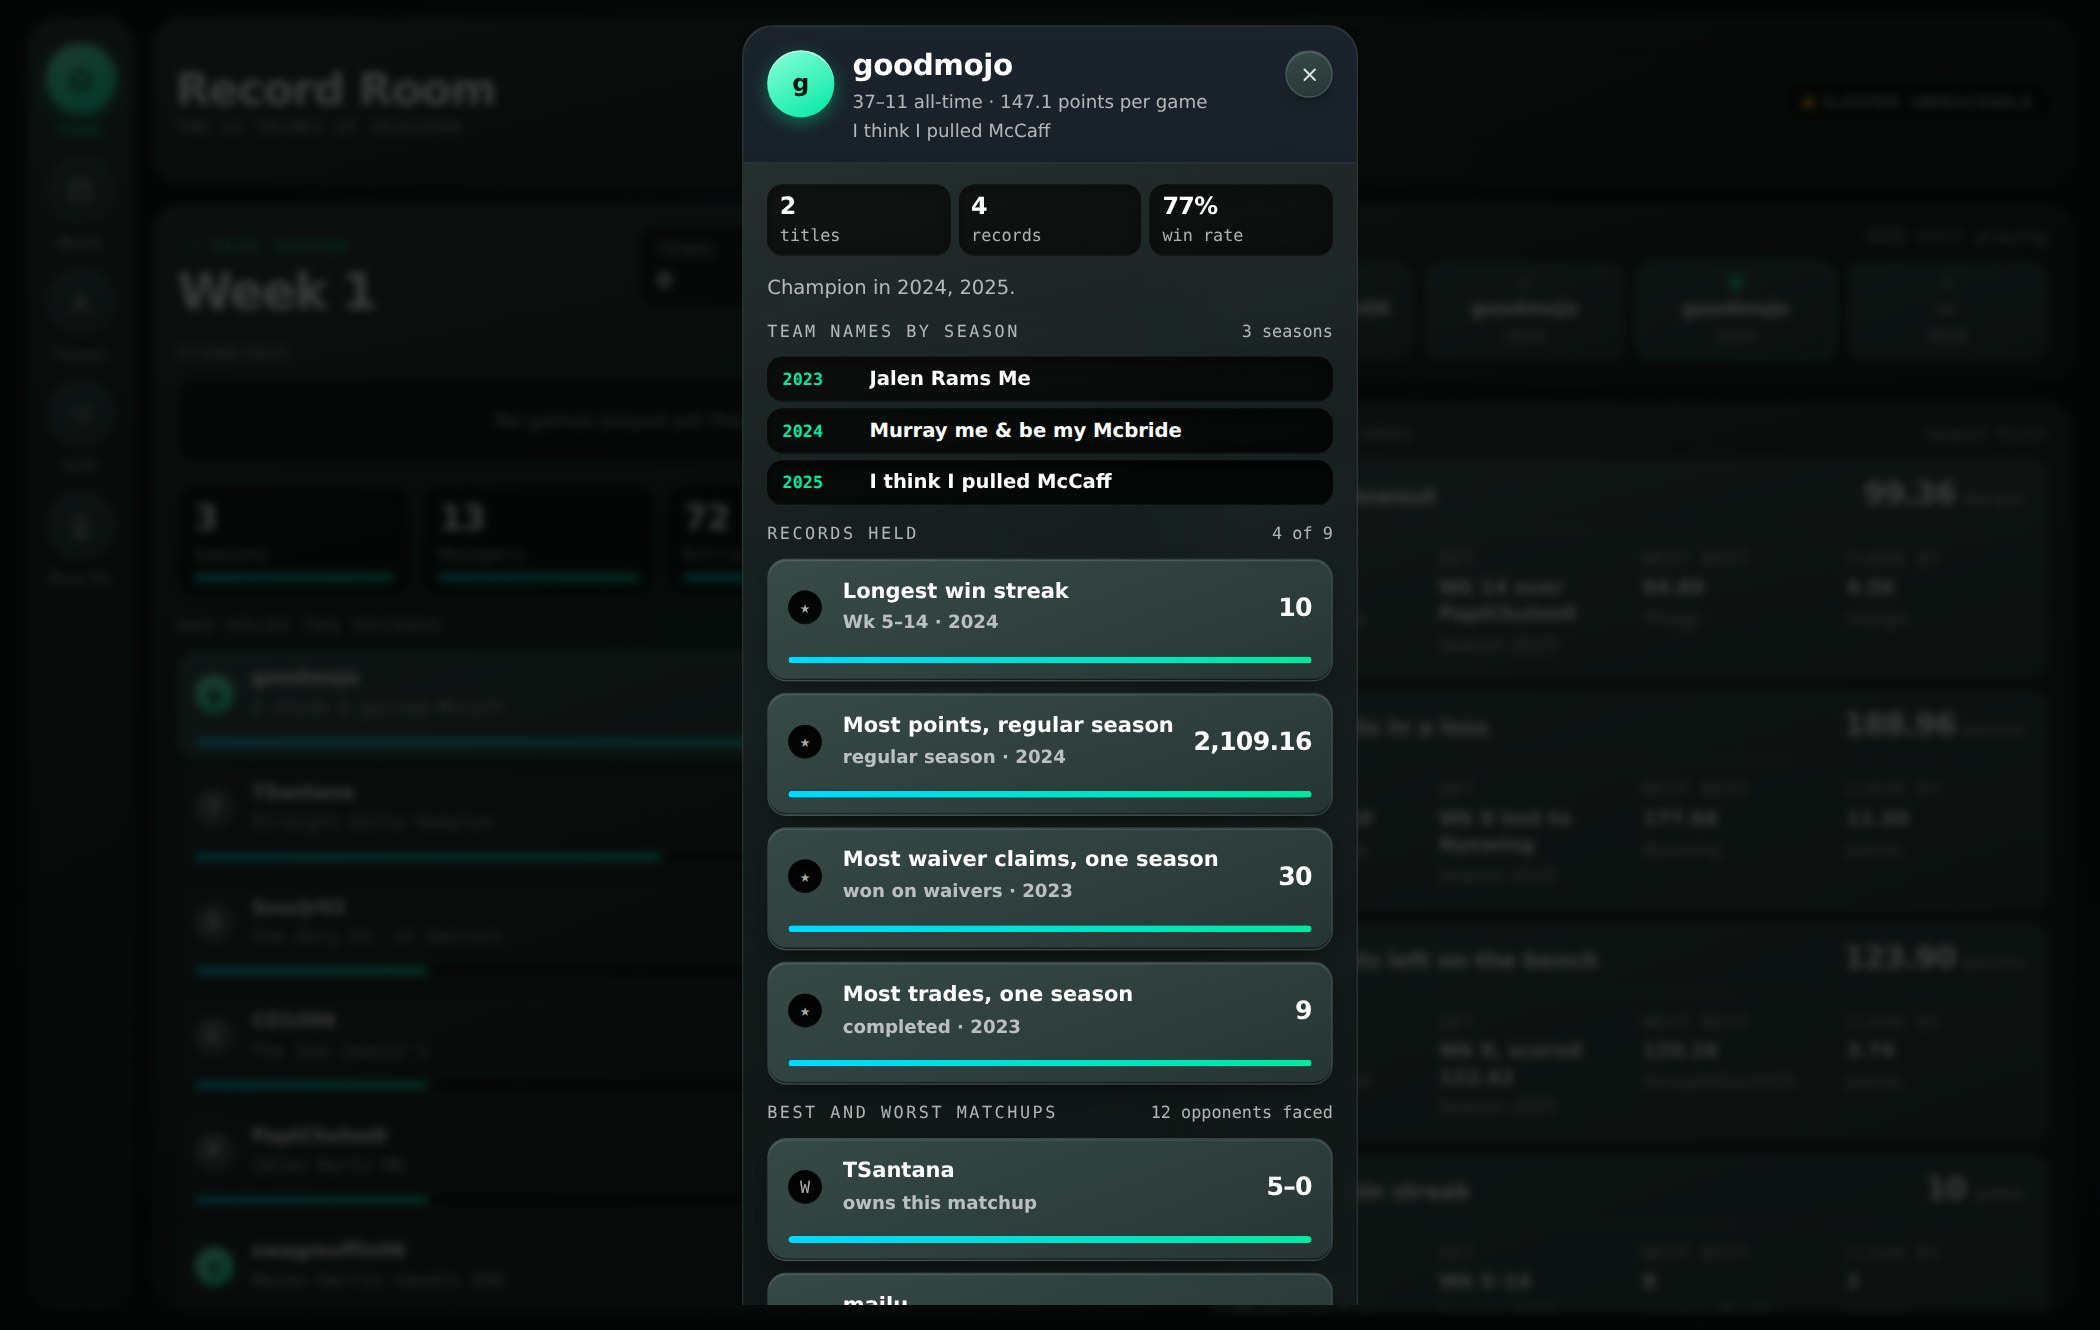
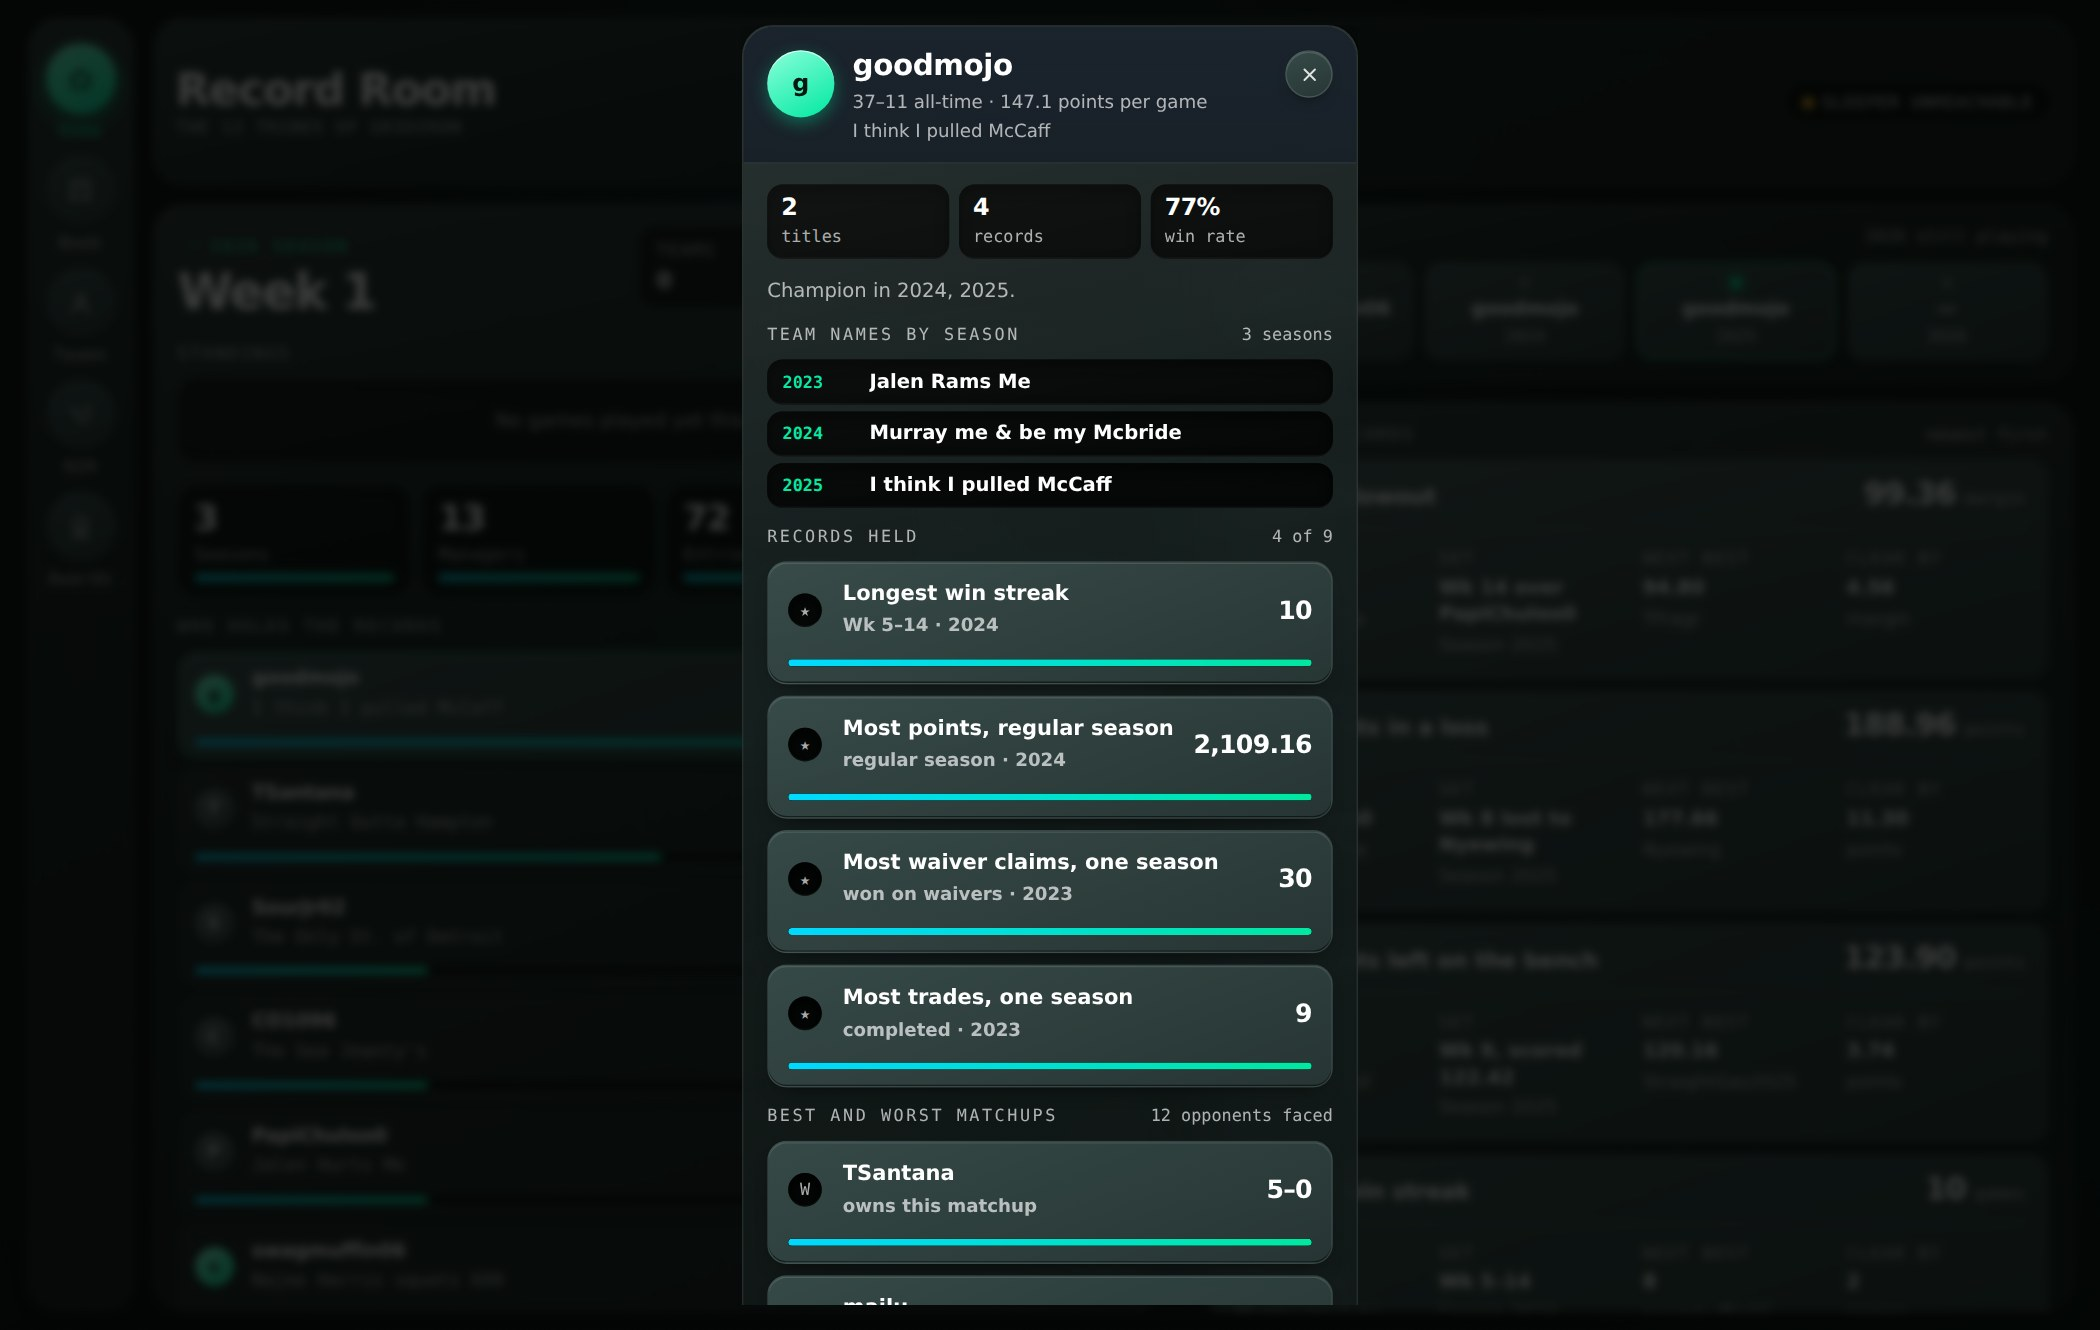
Stop the manager cards wrapping their own numbers
A record like 39-12 was breaking at the dash onto two lines, which made every
stat box twice as tall as it needed to be and every card with it. The values
no longer wrap, the labels truncate instead of pushing the number around, and
the cards are wide enough that three stats sit side by side. Checked at 1920,
1500, 1200, 900, 500 and 400: nothing wraps at any of them.

The managers heading also still read "all-time, 2019-2025", a range from the
fabricated sample that was never true of this league. It now comes from the
seasons actually loaded.

Claude-Session: https://claude.ai/code/session_01TiNMvjTDK6Q7mnYRtzpeH8

diff --git a/public/index.html b/public/index.html
@@ -225,7 +225,7 @@ button{font:inherit;color:inherit}
 .sbends{display:flex;justify-content:space-between;margin-top:5px;font-family:var(--mono);
   font-size:12px;color:var(--ink-3);font-variant-numeric:tabular-nums}
 .rval{font-family:var(--disp);font-size:22px;font-weight:700;letter-spacing:-.035em;
-  font-variant-numeric:tabular-nums;line-height:1}
+  font-variant-numeric:tabular-nums;line-height:1;white-space:nowrap}
 .rvalu{font-family:var(--mono);font-size:12px;color:var(--ink-3);margin-left:6px}
 /* champions timeline */
 .hbars{display:flex;flex-direction:column;gap:6px}
@@ -242,7 +242,7 @@ button{font:inherit;color:inherit}
 .hb .hn{font-size:14px;font-weight:700;letter-spacing:-.01em}
 .hb .hs{display:block;font-family:var(--mono);font-size:13px;color:var(--ink-3);margin-top:5px;line-height:1.45}
 .hb .hv{font-family:var(--disp);font-size:19px;font-weight:700;letter-spacing:-.03em;
-  font-variant-numeric:tabular-nums;text-align:right;line-height:1}
+  font-variant-numeric:tabular-nums;text-align:right;line-height:1;white-space:nowrap}
 .hb .hv em{display:block;font-family:var(--mono);font-style:normal;font-size:12px;font-weight:400;
   color:var(--ink-3);letter-spacing:.04em;margin-top:4px}
 .hb .hw{grid-column:1/-1;height:5px;border-radius:999px;background:var(--recess);box-shadow:var(--well-sh);overflow:hidden}
@@ -325,9 +325,9 @@ button{font:inherit;color:inherit}
 .stn{min-width:0;font-size:15px;font-weight:700;letter-spacing:-.01em;line-height:1.3}
 .stt{display:block;font-size:13px;font-weight:400;color:var(--ink-3);margin-top:4px;line-height:1.4;
   overflow:hidden;text-overflow:ellipsis;white-space:nowrap}
-.stw{font-family:var(--mono);font-size:14px;color:var(--ink-2);font-variant-numeric:tabular-nums}
+.stw{font-family:var(--mono);font-size:14px;color:var(--ink-2);font-variant-numeric:tabular-nums;white-space:nowrap}
 .stp{font-family:var(--disp);font-size:17px;font-weight:700;letter-spacing:-.03em;text-align:right;
-  font-variant-numeric:tabular-nums;line-height:1}
+  font-variant-numeric:tabular-nums;line-height:1;white-space:nowrap}
 .stp em{display:block;font-family:var(--mono);font-style:normal;font-size:12px;font-weight:400;
   color:var(--ink-3);margin-top:4px}
 .stbar{grid-column:1/-1;height:5px;border-radius:999px;background:var(--recess);box-shadow:var(--well-sh);
@@ -359,8 +359,8 @@ button{font:inherit;color:inherit}
 
 /* ═══ MANAGERS ═══ */
 #p-mgrs{grid-template-rows:minmax(0,1fr)}
-.mgrid{display:grid;grid-template-columns:repeat(auto-fill,minmax(210px,1fr));gap:9px}
-.mcard{text-align:left;padding:12px;border-radius:var(--r-s);cursor:pointer;
+.mgrid{display:grid;grid-template-columns:repeat(auto-fill,minmax(258px,1fr));gap:10px}
+.mcard{text-align:left;padding:13px;border-radius:var(--r-s);cursor:pointer;
   border:1px solid rgba(255,255,255,.055);
   background:linear-gradient(160deg,var(--e2-hi),var(--e2));
   box-shadow:inset 0 1px 0 rgba(255,255,255,.12),0 9px 19px -12px rgba(0,0,0,.97);
@@ -383,11 +383,11 @@ button{font:inherit;color:inherit}
 .sl b{font-family:var(--mono);font-size:12px;color:var(--accent);font-weight:600}
 .sl span{font-size:14px;font-weight:600;overflow:hidden;text-overflow:ellipsis;white-space:nowrap}
 .sl i{font-style:normal;color:var(--ink-3);font-weight:400}
-.mstats{display:grid;grid-template-columns:1fr 1fr;gap:6px;margin-top:11px}
-.ms{padding:8px 9px;border-radius:11px;background:var(--recess);box-shadow:var(--well-sh)}
+.mstats{display:grid;grid-template-columns:1fr 1fr;gap:7px;margin-top:11px}
+.ms{padding:9px 10px;border-radius:11px;background:var(--recess);box-shadow:var(--well-sh);min-width:0}
 .ms b{display:block;font-family:var(--disp);font-size:17px;font-weight:700;letter-spacing:-.03em;
-  font-variant-numeric:tabular-nums;line-height:1}
-.ms span{display:block;font-family:var(--mono);font-size:12px;color:var(--ink-3);margin-top:4px}
+  font-variant-numeric:tabular-nums;line-height:1;white-space:nowrap}
+.ms span{display:block;font-family:var(--mono);font-size:12px;color:var(--ink-3);margin-top:4px;white-space:nowrap;overflow:hidden;text-overflow:ellipsis}
 .mbar{height:5px;border-radius:999px;background:var(--recess);box-shadow:var(--well-sh);margin-top:10px;overflow:hidden}
 .mbar i{display:block;height:100%;border-radius:999px;
   background:linear-gradient(90deg,var(--accent-2),var(--accent));box-shadow:0 0 9px rgba(0,232,160,.6)}
@@ -613,7 +613,7 @@ dialog::backdrop{background:rgba(2,5,4,.78);backdrop-filter:blur(3px)}
     <!-- ══ MANAGERS ══ -->
     <section class="page" id="p-mgrs">
       <div class="panel glass pad scroll">
-        <div class="sechead"><h4>Managers</h4><em>all-time, 2019–2025 · tap a card</em></div>
+        <div class="sechead"><h4>Managers</h4><em id="mgrNote"></em></div>
         <div class="mgrid" id="mgrid"></div>
       </div>
     </section>
@@ -1007,6 +1007,8 @@ function renderBoard(){
 
 /* ═══ MANAGERS ═══ */
 function renderMgrs(){
+  const ys=DATA.seasons;
+  $('mgrNote').textContent='all-time, '+ys[0]+'–'+ys[ys.length-1]+' · tap a card';
   const maxW=MGR[0].w;
   $('mgrid').innerHTML=MGR.map(m=>`
     <button class="mcard" data-m="${m.name}">

diff --git a/samples/record-room-standalone.html b/samples/record-room-standalone.html
@@ -225,7 +225,7 @@ button{font:inherit;color:inherit}
 .sbends{display:flex;justify-content:space-between;margin-top:5px;font-family:var(--mono);
   font-size:12px;color:var(--ink-3);font-variant-numeric:tabular-nums}
 .rval{font-family:var(--disp);font-size:22px;font-weight:700;letter-spacing:-.035em;
-  font-variant-numeric:tabular-nums;line-height:1}
+  font-variant-numeric:tabular-nums;line-height:1;white-space:nowrap}
 .rvalu{font-family:var(--mono);font-size:12px;color:var(--ink-3);margin-left:6px}
 /* champions timeline */
 .hbars{display:flex;flex-direction:column;gap:6px}
@@ -242,7 +242,7 @@ button{font:inherit;color:inherit}
 .hb .hn{font-size:14px;font-weight:700;letter-spacing:-.01em}
 .hb .hs{display:block;font-family:var(--mono);font-size:13px;color:var(--ink-3);margin-top:5px;line-height:1.45}
 .hb .hv{font-family:var(--disp);font-size:19px;font-weight:700;letter-spacing:-.03em;
-  font-variant-numeric:tabular-nums;text-align:right;line-height:1}
+  font-variant-numeric:tabular-nums;text-align:right;line-height:1;white-space:nowrap}
 .hb .hv em{display:block;font-family:var(--mono);font-style:normal;font-size:12px;font-weight:400;
   color:var(--ink-3);letter-spacing:.04em;margin-top:4px}
 .hb .hw{grid-column:1/-1;height:5px;border-radius:999px;background:var(--recess);box-shadow:var(--well-sh);overflow:hidden}
@@ -325,9 +325,9 @@ button{font:inherit;color:inherit}
 .stn{min-width:0;font-size:15px;font-weight:700;letter-spacing:-.01em;line-height:1.3}
 .stt{display:block;font-size:13px;font-weight:400;color:var(--ink-3);margin-top:4px;line-height:1.4;
   overflow:hidden;text-overflow:ellipsis;white-space:nowrap}
-.stw{font-family:var(--mono);font-size:14px;color:var(--ink-2);font-variant-numeric:tabular-nums}
+.stw{font-family:var(--mono);font-size:14px;color:var(--ink-2);font-variant-numeric:tabular-nums;white-space:nowrap}
 .stp{font-family:var(--disp);font-size:17px;font-weight:700;letter-spacing:-.03em;text-align:right;
-  font-variant-numeric:tabular-nums;line-height:1}
+  font-variant-numeric:tabular-nums;line-height:1;white-space:nowrap}
 .stp em{display:block;font-family:var(--mono);font-style:normal;font-size:12px;font-weight:400;
   color:var(--ink-3);margin-top:4px}
 .stbar{grid-column:1/-1;height:5px;border-radius:999px;background:var(--recess);box-shadow:var(--well-sh);
@@ -359,8 +359,8 @@ button{font:inherit;color:inherit}
 
 /* ═══ MANAGERS ═══ */
 #p-mgrs{grid-template-rows:minmax(0,1fr)}
-.mgrid{display:grid;grid-template-columns:repeat(auto-fill,minmax(210px,1fr));gap:9px}
-.mcard{text-align:left;padding:12px;border-radius:var(--r-s);cursor:pointer;
+.mgrid{display:grid;grid-template-columns:repeat(auto-fill,minmax(258px,1fr));gap:10px}
+.mcard{text-align:left;padding:13px;border-radius:var(--r-s);cursor:pointer;
   border:1px solid rgba(255,255,255,.055);
   background:linear-gradient(160deg,var(--e2-hi),var(--e2));
   box-shadow:inset 0 1px 0 rgba(255,255,255,.12),0 9px 19px -12px rgba(0,0,0,.97);
@@ -383,11 +383,11 @@ button{font:inherit;color:inherit}
 .sl b{font-family:var(--mono);font-size:12px;color:var(--accent);font-weight:600}
 .sl span{font-size:14px;font-weight:600;overflow:hidden;text-overflow:ellipsis;white-space:nowrap}
 .sl i{font-style:normal;color:var(--ink-3);font-weight:400}
-.mstats{display:grid;grid-template-columns:1fr 1fr;gap:6px;margin-top:11px}
-.ms{padding:8px 9px;border-radius:11px;background:var(--recess);box-shadow:var(--well-sh)}
+.mstats{display:grid;grid-template-columns:1fr 1fr;gap:7px;margin-top:11px}
+.ms{padding:9px 10px;border-radius:11px;background:var(--recess);box-shadow:var(--well-sh);min-width:0}
 .ms b{display:block;font-family:var(--disp);font-size:17px;font-weight:700;letter-spacing:-.03em;
-  font-variant-numeric:tabular-nums;line-height:1}
-.ms span{display:block;font-family:var(--mono);font-size:12px;color:var(--ink-3);margin-top:4px}
+  font-variant-numeric:tabular-nums;line-height:1;white-space:nowrap}
+.ms span{display:block;font-family:var(--mono);font-size:12px;color:var(--ink-3);margin-top:4px;white-space:nowrap;overflow:hidden;text-overflow:ellipsis}
 .mbar{height:5px;border-radius:999px;background:var(--recess);box-shadow:var(--well-sh);margin-top:10px;overflow:hidden}
 .mbar i{display:block;height:100%;border-radius:999px;
   background:linear-gradient(90deg,var(--accent-2),var(--accent));box-shadow:0 0 9px rgba(0,232,160,.6)}
@@ -613,7 +613,7 @@ dialog::backdrop{background:rgba(2,5,4,.78);backdrop-filter:blur(3px)}
     <!-- ══ MANAGERS ══ -->
     <section class="page" id="p-mgrs">
       <div class="panel glass pad scroll">
-        <div class="sechead"><h4>Managers</h4><em>all-time, 2019–2025 · tap a card</em></div>
+        <div class="sechead"><h4>Managers</h4><em id="mgrNote"></em></div>
         <div class="mgrid" id="mgrid"></div>
       </div>
     </section>
@@ -1007,6 +1007,8 @@ function renderBoard(){
 
 /* ═══ MANAGERS ═══ */
 function renderMgrs(){
+  const ys=DATA.seasons;
+  $('mgrNote').textContent='all-time, '+ys[0]+'–'+ys[ys.length-1]+' · tap a card';
   const maxW=MGR[0].w;
   $('mgrid').innerHTML=MGR.map(m=>`
     <button class="mcard" data-m="${m.name}">

diff --git a/samples/record-room.html b/samples/record-room.html
@@ -219,7 +219,7 @@ button{font:inherit;color:inherit}
 .sbends{display:flex;justify-content:space-between;margin-top:5px;font-family:var(--mono);
   font-size:12px;color:var(--ink-3);font-variant-numeric:tabular-nums}
 .rval{font-family:var(--disp);font-size:22px;font-weight:700;letter-spacing:-.035em;
-  font-variant-numeric:tabular-nums;line-height:1}
+  font-variant-numeric:tabular-nums;line-height:1;white-space:nowrap}
 .rvalu{font-family:var(--mono);font-size:12px;color:var(--ink-3);margin-left:6px}
 /* champions timeline */
 .hbars{display:flex;flex-direction:column;gap:6px}
@@ -236,7 +236,7 @@ button{font:inherit;color:inherit}
 .hb .hn{font-size:14px;font-weight:700;letter-spacing:-.01em}
 .hb .hs{display:block;font-family:var(--mono);font-size:13px;color:var(--ink-3);margin-top:5px;line-height:1.45}
 .hb .hv{font-family:var(--disp);font-size:19px;font-weight:700;letter-spacing:-.03em;
-  font-variant-numeric:tabular-nums;text-align:right;line-height:1}
+  font-variant-numeric:tabular-nums;text-align:right;line-height:1;white-space:nowrap}
 .hb .hv em{display:block;font-family:var(--mono);font-style:normal;font-size:12px;font-weight:400;
   color:var(--ink-3);letter-spacing:.04em;margin-top:4px}
 .hb .hw{grid-column:1/-1;height:5px;border-radius:999px;background:var(--recess);box-shadow:var(--well-sh);overflow:hidden}
@@ -319,9 +319,9 @@ button{font:inherit;color:inherit}
 .stn{min-width:0;font-size:15px;font-weight:700;letter-spacing:-.01em;line-height:1.3}
 .stt{display:block;font-size:13px;font-weight:400;color:var(--ink-3);margin-top:4px;line-height:1.4;
   overflow:hidden;text-overflow:ellipsis;white-space:nowrap}
-.stw{font-family:var(--mono);font-size:14px;color:var(--ink-2);font-variant-numeric:tabular-nums}
+.stw{font-family:var(--mono);font-size:14px;color:var(--ink-2);font-variant-numeric:tabular-nums;white-space:nowrap}
 .stp{font-family:var(--disp);font-size:17px;font-weight:700;letter-spacing:-.03em;text-align:right;
-  font-variant-numeric:tabular-nums;line-height:1}
+  font-variant-numeric:tabular-nums;line-height:1;white-space:nowrap}
 .stp em{display:block;font-family:var(--mono);font-style:normal;font-size:12px;font-weight:400;
   color:var(--ink-3);margin-top:4px}
 .stbar{grid-column:1/-1;height:5px;border-radius:999px;background:var(--recess);box-shadow:var(--well-sh);
@@ -353,8 +353,8 @@ button{font:inherit;color:inherit}
 
 /* ═══ MANAGERS ═══ */
 #p-mgrs{grid-template-rows:minmax(0,1fr)}
-.mgrid{display:grid;grid-template-columns:repeat(auto-fill,minmax(210px,1fr));gap:9px}
-.mcard{text-align:left;padding:12px;border-radius:var(--r-s);cursor:pointer;
+.mgrid{display:grid;grid-template-columns:repeat(auto-fill,minmax(258px,1fr));gap:10px}
+.mcard{text-align:left;padding:13px;border-radius:var(--r-s);cursor:pointer;
   border:1px solid rgba(255,255,255,.055);
   background:linear-gradient(160deg,var(--e2-hi),var(--e2));
   box-shadow:inset 0 1px 0 rgba(255,255,255,.12),0 9px 19px -12px rgba(0,0,0,.97);
@@ -377,11 +377,11 @@ button{font:inherit;color:inherit}
 .sl b{font-family:var(--mono);font-size:12px;color:var(--accent);font-weight:600}
 .sl span{font-size:14px;font-weight:600;overflow:hidden;text-overflow:ellipsis;white-space:nowrap}
 .sl i{font-style:normal;color:var(--ink-3);font-weight:400}
-.mstats{display:grid;grid-template-columns:1fr 1fr;gap:6px;margin-top:11px}
-.ms{padding:8px 9px;border-radius:11px;background:var(--recess);box-shadow:var(--well-sh)}
+.mstats{display:grid;grid-template-columns:1fr 1fr;gap:7px;margin-top:11px}
+.ms{padding:9px 10px;border-radius:11px;background:var(--recess);box-shadow:var(--well-sh);min-width:0}
 .ms b{display:block;font-family:var(--disp);font-size:17px;font-weight:700;letter-spacing:-.03em;
-  font-variant-numeric:tabular-nums;line-height:1}
-.ms span{display:block;font-family:var(--mono);font-size:12px;color:var(--ink-3);margin-top:4px}
+  font-variant-numeric:tabular-nums;line-height:1;white-space:nowrap}
+.ms span{display:block;font-family:var(--mono);font-size:12px;color:var(--ink-3);margin-top:4px;white-space:nowrap;overflow:hidden;text-overflow:ellipsis}
 .mbar{height:5px;border-radius:999px;background:var(--recess);box-shadow:var(--well-sh);margin-top:10px;overflow:hidden}
 .mbar i{display:block;height:100%;border-radius:999px;
   background:linear-gradient(90deg,var(--accent-2),var(--accent));box-shadow:0 0 9px rgba(0,232,160,.6)}
@@ -604,7 +604,7 @@ dialog::backdrop{background:rgba(2,5,4,.78);backdrop-filter:blur(3px)}
     <!-- ══ MANAGERS ══ -->
     <section class="page" id="p-mgrs">
       <div class="panel glass pad scroll">
-        <div class="sechead"><h4>Managers</h4><em>all-time, 2019–2025 · tap a card</em></div>
+        <div class="sechead"><h4>Managers</h4><em id="mgrNote"></em></div>
         <div class="mgrid" id="mgrid"></div>
       </div>
     </section>
@@ -998,6 +998,8 @@ function renderBoard(){
 
 /* ═══ MANAGERS ═══ */
 function renderMgrs(){
+  const ys=DATA.seasons;
+  $('mgrNote').textContent='all-time, '+ys[0]+'–'+ys[ys.length-1]+' · tap a card';
   const maxW=MGR[0].w;
   $('mgrid').innerHTML=MGR.map(m=>`
     <button class="mcard" data-m="${m.name}">
